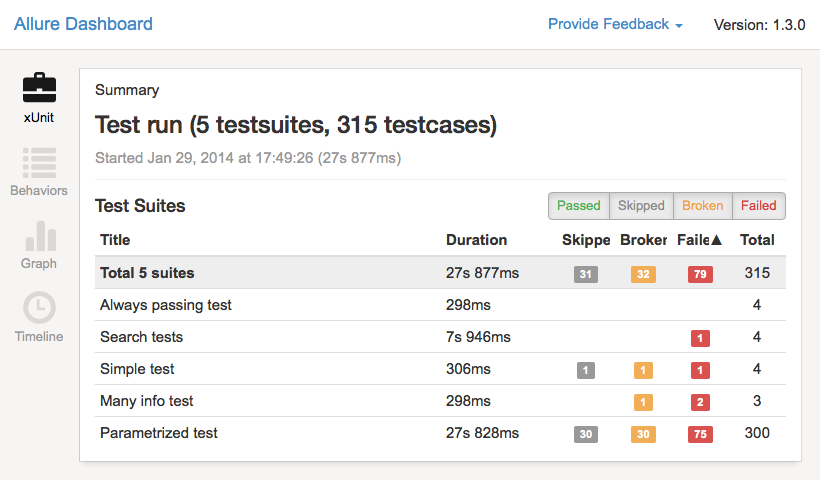
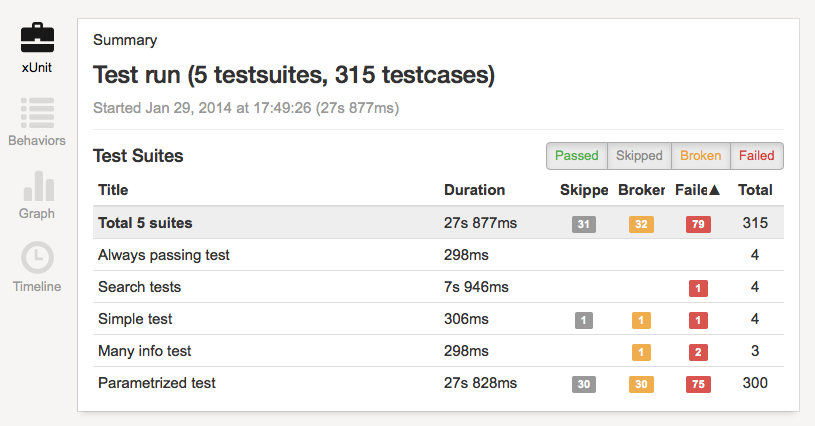
add - link to latest release notes, crop allure header

diff --git a/README.md b/README.md
@@ -1,5 +1,9 @@
 # Allure
+
+### [Release Version](https://github.com/allure-framework/allure-core/releases/latest)
+
 ![image](https://raw.github.com/allure-framework/allure-core/master/allure-dashboard.png)
+
 A flexible, lightweight multi-language framework for writing **self-documenting tests**, with the ability to store attachments, such as screenshots, logs and so on.
 
 ## Who uses Allure
